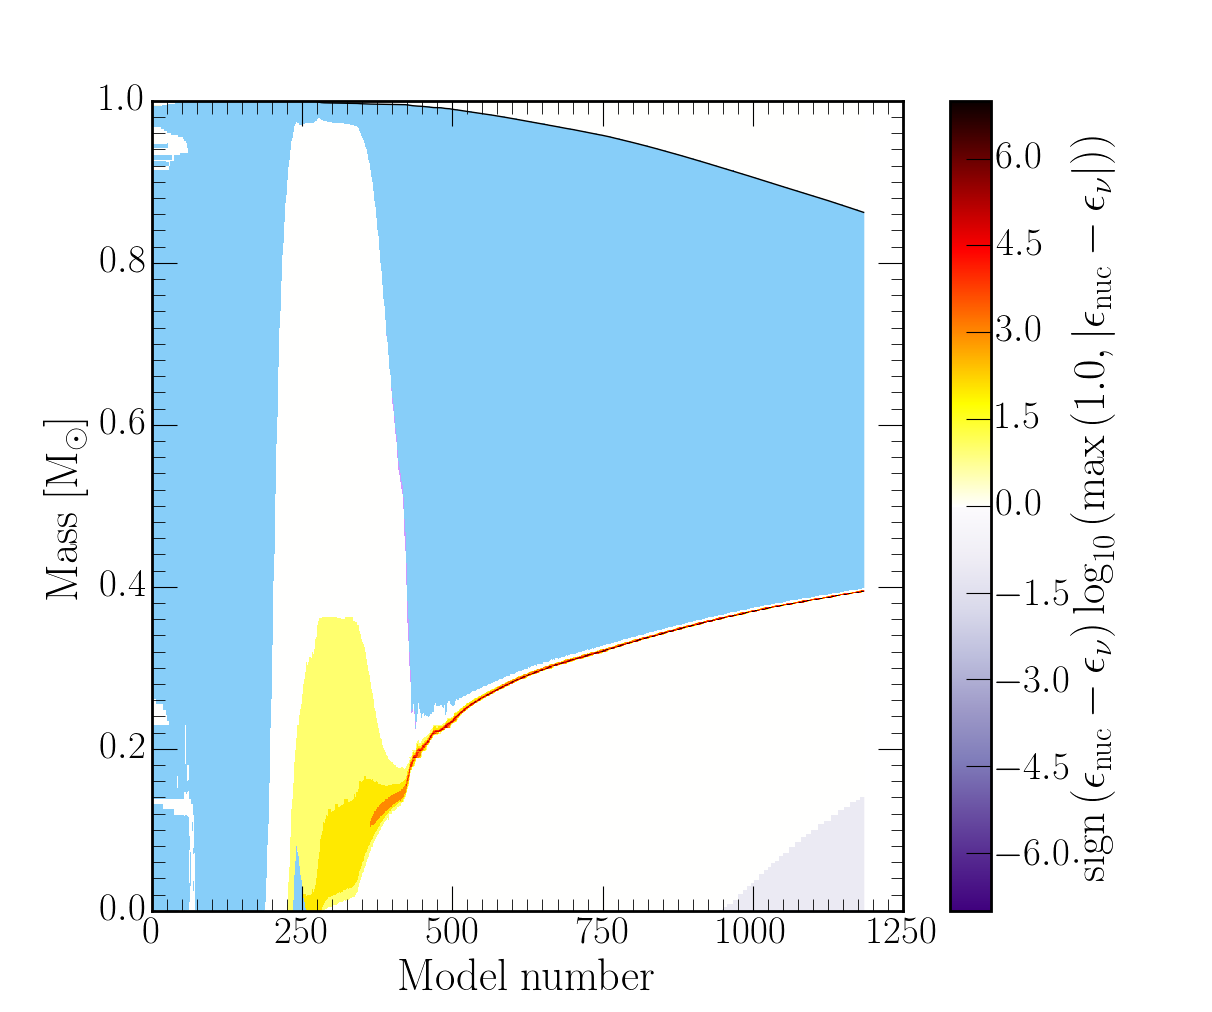
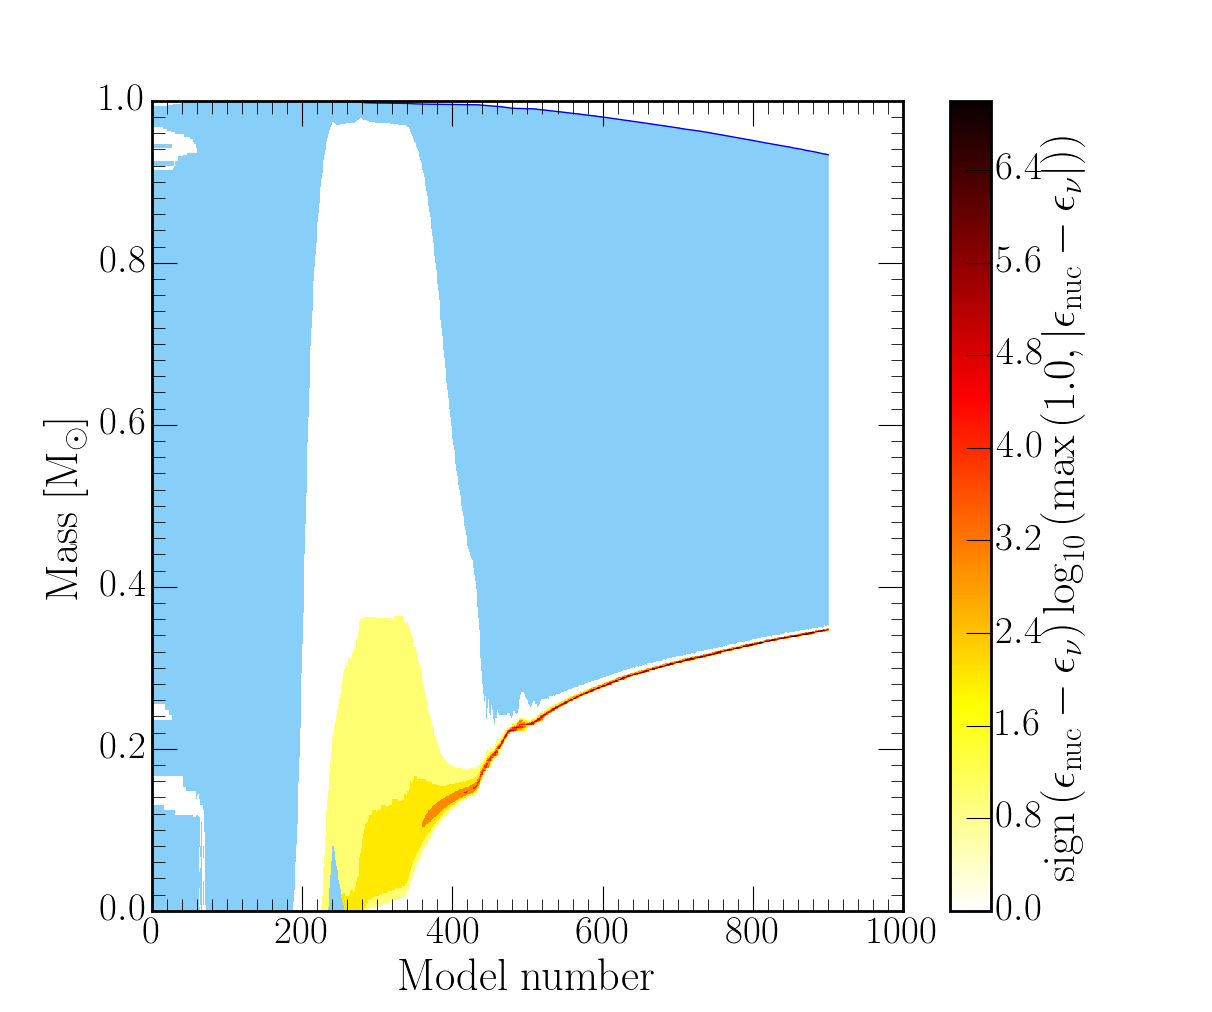
Update kip plot

diff --git a/mesaPlot.py b/mesaPlot.py
@@ -1604,7 +1604,7 @@ class plot():
 		self._setYLim(ax,ax.get_ylim(),yrng)
 		
 		#Add line at outer mass location
-		ax.plot(np.linspace(ax.get_xlim()[0],ax.get_xlim()[1],np.size(m.hist_dat['star_mass'])),m.hist_dat['star_mass'],c='k')
+		ax.plot(m.hist_dat['model_number'][modInd],m.hist_dat['star_mass'][modInd],c='k')
 		
 		if show:
 			plt.show()

diff --git a/examples/plotKip.py b/examples/plotKip.py
@@ -7,7 +7,7 @@ m.loadHistory()
 p=mp.plot()
 
 fig=plt.figure(figsize=(12,10))
-ax=fig.add_subplot(1)
+ax=fig.add_subplot(111)
 
 #Simply plot
 p.plotKip(m,fig=fig,ax=ax,show=False)
